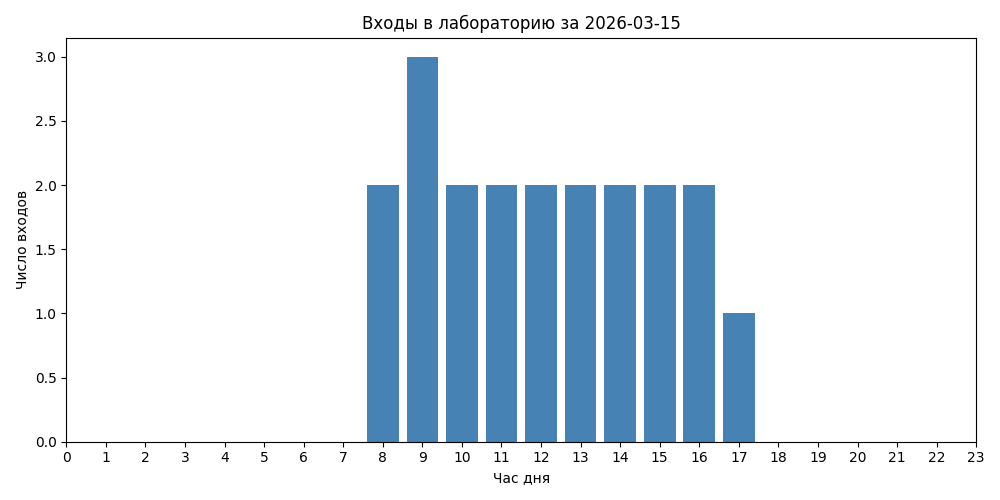
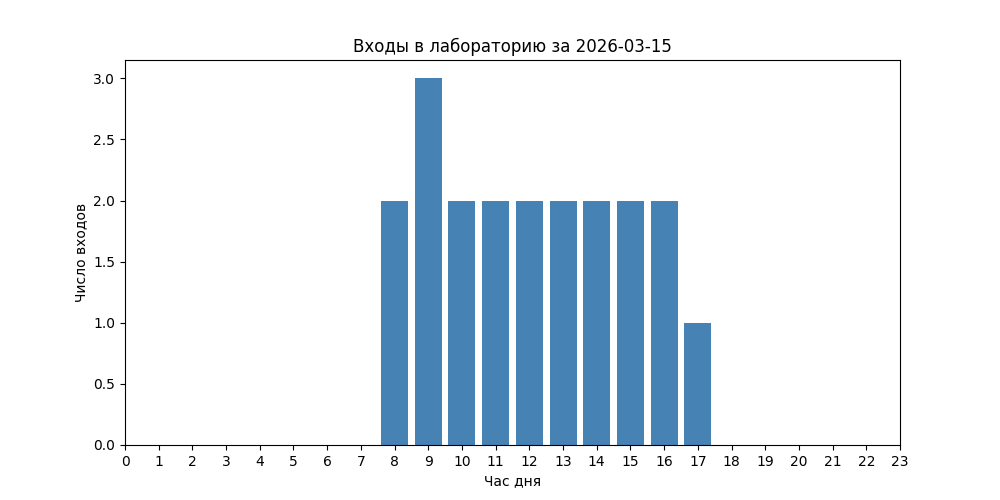
add LabApi

diff --git a/Lab_api.py b/Lab_api.py
@@ -14,7 +14,6 @@ class LabApi:
         df = df[["ts", "hour", "student_id"]]
         return df[df["ts"].str.startswith(date_str)]
 
-    # обработчик запроса: GET /entries?date=2026-03-15
     def entries(self):
         date_str = request.args.get("date", "")
         if not date_str:
@@ -29,4 +28,3 @@ class LabApi:
 
 obj = LabApi("Lab_log.csv")
 obj.run()
-# после запуска открой браузер: http://127.0.0.1:5000/entries?date=2026-03-15

diff --git a/Hour_plotter.py b/Hour_plotter.py
@@ -22,7 +22,6 @@ class HourPlotter:
         plt.ylabel("Число входов")
         plt.title(f"Входы в лабораторию за {date_str}")
         plt.xticks(range(0, 24))
-        plt.tight_layout()
         plt.savefig("entries_by_hour.png")
         plt.show()
         print("HourPlotter: график сохранён entries_by_hour.png")

diff --git a/Entries_saver.py b/Entries_saver.py
@@ -8,7 +8,6 @@ class EntriesSaver:
     def get_day(self, date_str):
         df = pd.read_csv(self.filepath)
         df["hour"] = df["ts"].apply(lambda ts: int(ts[11:13]))
-        df = df[["ts", "hour", "student_id"]]
         return df[df["ts"].str.startswith(date_str)]
 
     def save_by_hour(self, date_str):

diff --git a/Hours_array.py b/Hours_array.py
@@ -6,7 +6,6 @@ class HoursArray:
     def __init__(self, filepath):
         self.filepath = filepath
 
-    # читаем файл и вытаскиваем часы через срез строки
     def get_hours(self):
         df = pd.read_csv(self.filepath)
         hours = []

diff --git a/Day_filter.py b/Day_filter.py
@@ -18,4 +18,4 @@ class DayFilter:
 
 obj = DayFilter("Lab_log.csv")
 print("DayFilter:")
-print(obj.get_day("2026-03-15"))
+print(obj.get_day("2026-03-16"))
